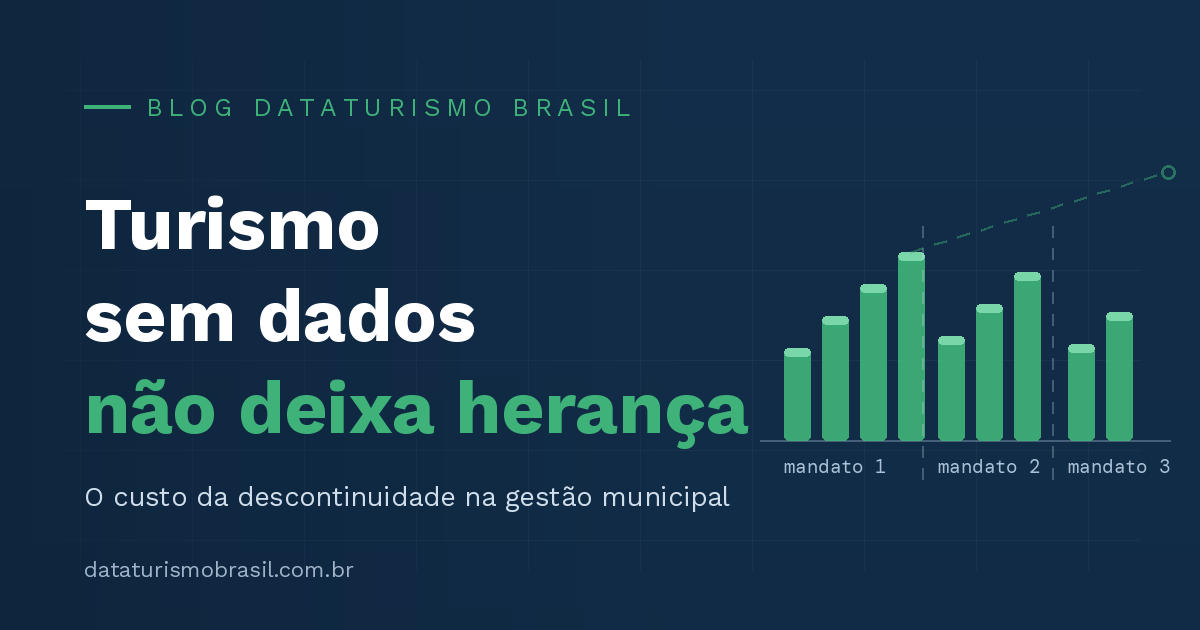
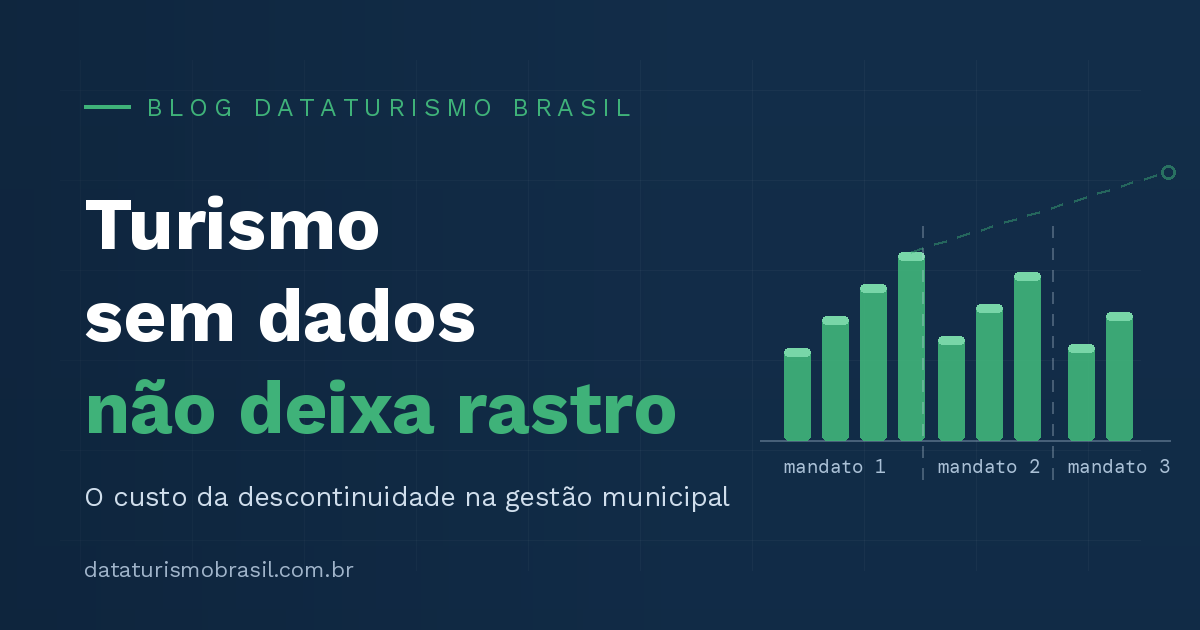
fix: novo título e ajustes de texto no artigo 2

Changed region(s): [[0.37, 0.6032, 0.6475, 0.7238]]

diff --git a/src/content/artigos/2-artigo-turismo-sem-dados.md b/src/content/artigos/2-artigo-turismo-sem-dados.md
@@ -1,32 +1,32 @@
 ---
-title: "Por que o turismo municipal não mede o que promove"
+title: "Turismo sem dados não deixa rastro"
 description: "Faltam dados no turismo municipal por razões estruturais: equipe sem cargo técnico, descontinuidade entre mandatos e a falta do turismólogo concursado."
 slug: "turismo-municipal-sem-dados-descontinuidade"
 pubDate: 2026-09-18
 category: "observatorio-e-dados"
 tags: ["gestão municipal do turismo", "turismólogo", "descontinuidade administrativa", "dados turísticos"]
 image: "./imagens/2-capa-descontinuidade.png"
-imageAlt: "Arte em azul-marinho com séries de dados que se interrompem e recomeçam mais baixas a cada mandato"
+imageAlt: "Arte em azul-marinho com barras de dados por mandato que recomeçam mais baixas, título Turismo sem dados não deixa rastro"
 draft: false
 ---
 
-Pergunte a uma secretaria municipal de turismo quantos visitantes o município recebeu no último ano, qual a ocupação média da rede hoteleira ou quanto o principal evento da cidade retornou em atividade econômica. Na maioria dos municípios brasileiros, essas perguntas ficam sem resposta. O problema não é falta de ferramenta. É falta de estrutura, e ela tem duas causas que se repetem de norte a sul: equipes sem capacidade técnica e descontinuidade entre mandatos. As duas convergem para uma mesma ausência, a do turismólogo concursado.
+Pergunte a uma secretaria municipal de turismo quais são as dimensões e indicadores mensurados e quais estratégias foram praticadas com base em evidências. Na maioria dos municípios brasileiros, essas perguntas ficam sem resposta. O problema não é falta de ferramenta. É falta de estrutura, e ela tem duas causas que se repetem de norte a sul: equipes sem capacidade técnica e descontinuidade entre mandatos. As duas convergem para uma mesma ausência, a do turismólogo concursado.
 
-## O sintoma: promover muito, medir nada
+## Realidade: promover muito, medir nada
 
-O padrão é reconhecível. O município investe em evento, sinalização e divulgação, e justifica cada gasto com a frase que não prova nada: "movimentou a cidade". Sem linha de base, não há como saber se movimentou mais que no ano anterior nem se o mesmo recurso renderia mais em outra ação. As consequências são concretas: editais e convênios perdidos porque o diagnóstico pedido não existe, orçamento indefensável na hora do corte, e políticas que são sucesso no discurso e incógnita na prática.
+O padrão é reconhecível. O município investe em evento, sinalização e divulgação, e justifica cada gasto com a frase que não prova nada: "movimentou a cidade". Sem linha de base, não há como saber se movimentou mais que no ano anterior nem se o mesmo recurso renderia mais em outra ação. As consequências são concretas: o diagnóstico pedido não existe, o orçamento é indefensável na hora do corte, e as políticas são sucesso no discurso e incógnita na prática.
 
-É tentador ler esse quadro como desinteresse do gestor. A leitura honesta é pior: do jeito que está montado, o sistema municipal de turismo não premia quem mede.
+Nem sempre é desinteresse do gestor. Muitas vezes é pior: do jeito que está montado, o sistema municipal de turismo não premia quem mede.
 
 <!-- IMAGEM opcional: foto sua em reunião de COMTUR ou visita técnica a uma secretaria. Alt: "Reunião de trabalho com gestores municipais de turismo" -->
 
-## Primeira causa: a equipe que não tem como fazer
+## A equipe que não tem como fazer
 
 Boa parte das secretarias e diretorias de turismo opera com dois ou três servidores acumulando evento, atendimento, articulação com o trade e prestação de contas. Não há estatístico, não há analista e, com frequência, não há um único cargo técnico de turismo no organograma.
 
 Nessa configuração, mensuração vira tarefa de quem sobrar tempo. E nunca sobra, porque coleta de dados é trabalho contínuo e invisível, o oposto do evento que rende foto.
 
-## Segunda causa: o mandato que apaga a memória
+## O mandato que apaga a memória
 
 Secretário de turismo é, via de regra, cargo de livre nomeação. Troca a gestão, troca o secretário, e com ele saem o diretor, o assessor e qualquer projeto que carregue a marca do antecessor. A pesquisa iniciada não se repete, a série histórica se interrompe e a planilha com três anos de dados fica no computador de alguém que não trabalha mais lá.
 
@@ -34,7 +34,7 @@ Dados turísticos só valem em série. Uma medição isolada é fotografia; plan
 
 ## A raiz comum: o turismólogo que não existe no quadro
 
-A profissão de turismólogo é reconhecida em lei desde 2012 (Lei nº 12.591/2012). Ainda assim, concurso público municipal para o cargo é raridade, e o turismo acaba sendo, em muitos municípios, a única área finalística sem servidor de carreira da própria área. Saúde tem médico concursado, educação tem professor, obras tem engenheiro. Turismo tem quem a gestão do momento indicar.
+A profissão de turismólogo é reconhecida em lei desde 2012 (Lei nº 12.591/2012). Ainda assim, concurso público municipal para o cargo é raridade, e o turismo acaba sendo, em muitos municípios, a única pasta sem servidor de carreira da própria área. Saúde tem médico concursado, educação tem professor, obras tem engenheiro. Turismo tem quem a gestão do momento indicar.
 
 Essa é exatamente a figura que falta nas duas causas anteriores. O turismólogo de carreira é a capacidade técnica permanente que a equipe não tem e a ponte entre mandatos que a descontinuidade destrói: permanece quando o secretário muda, carrega a série histórica e faz a transição de governo ser passagem de bastão em vez de demolição.
 
